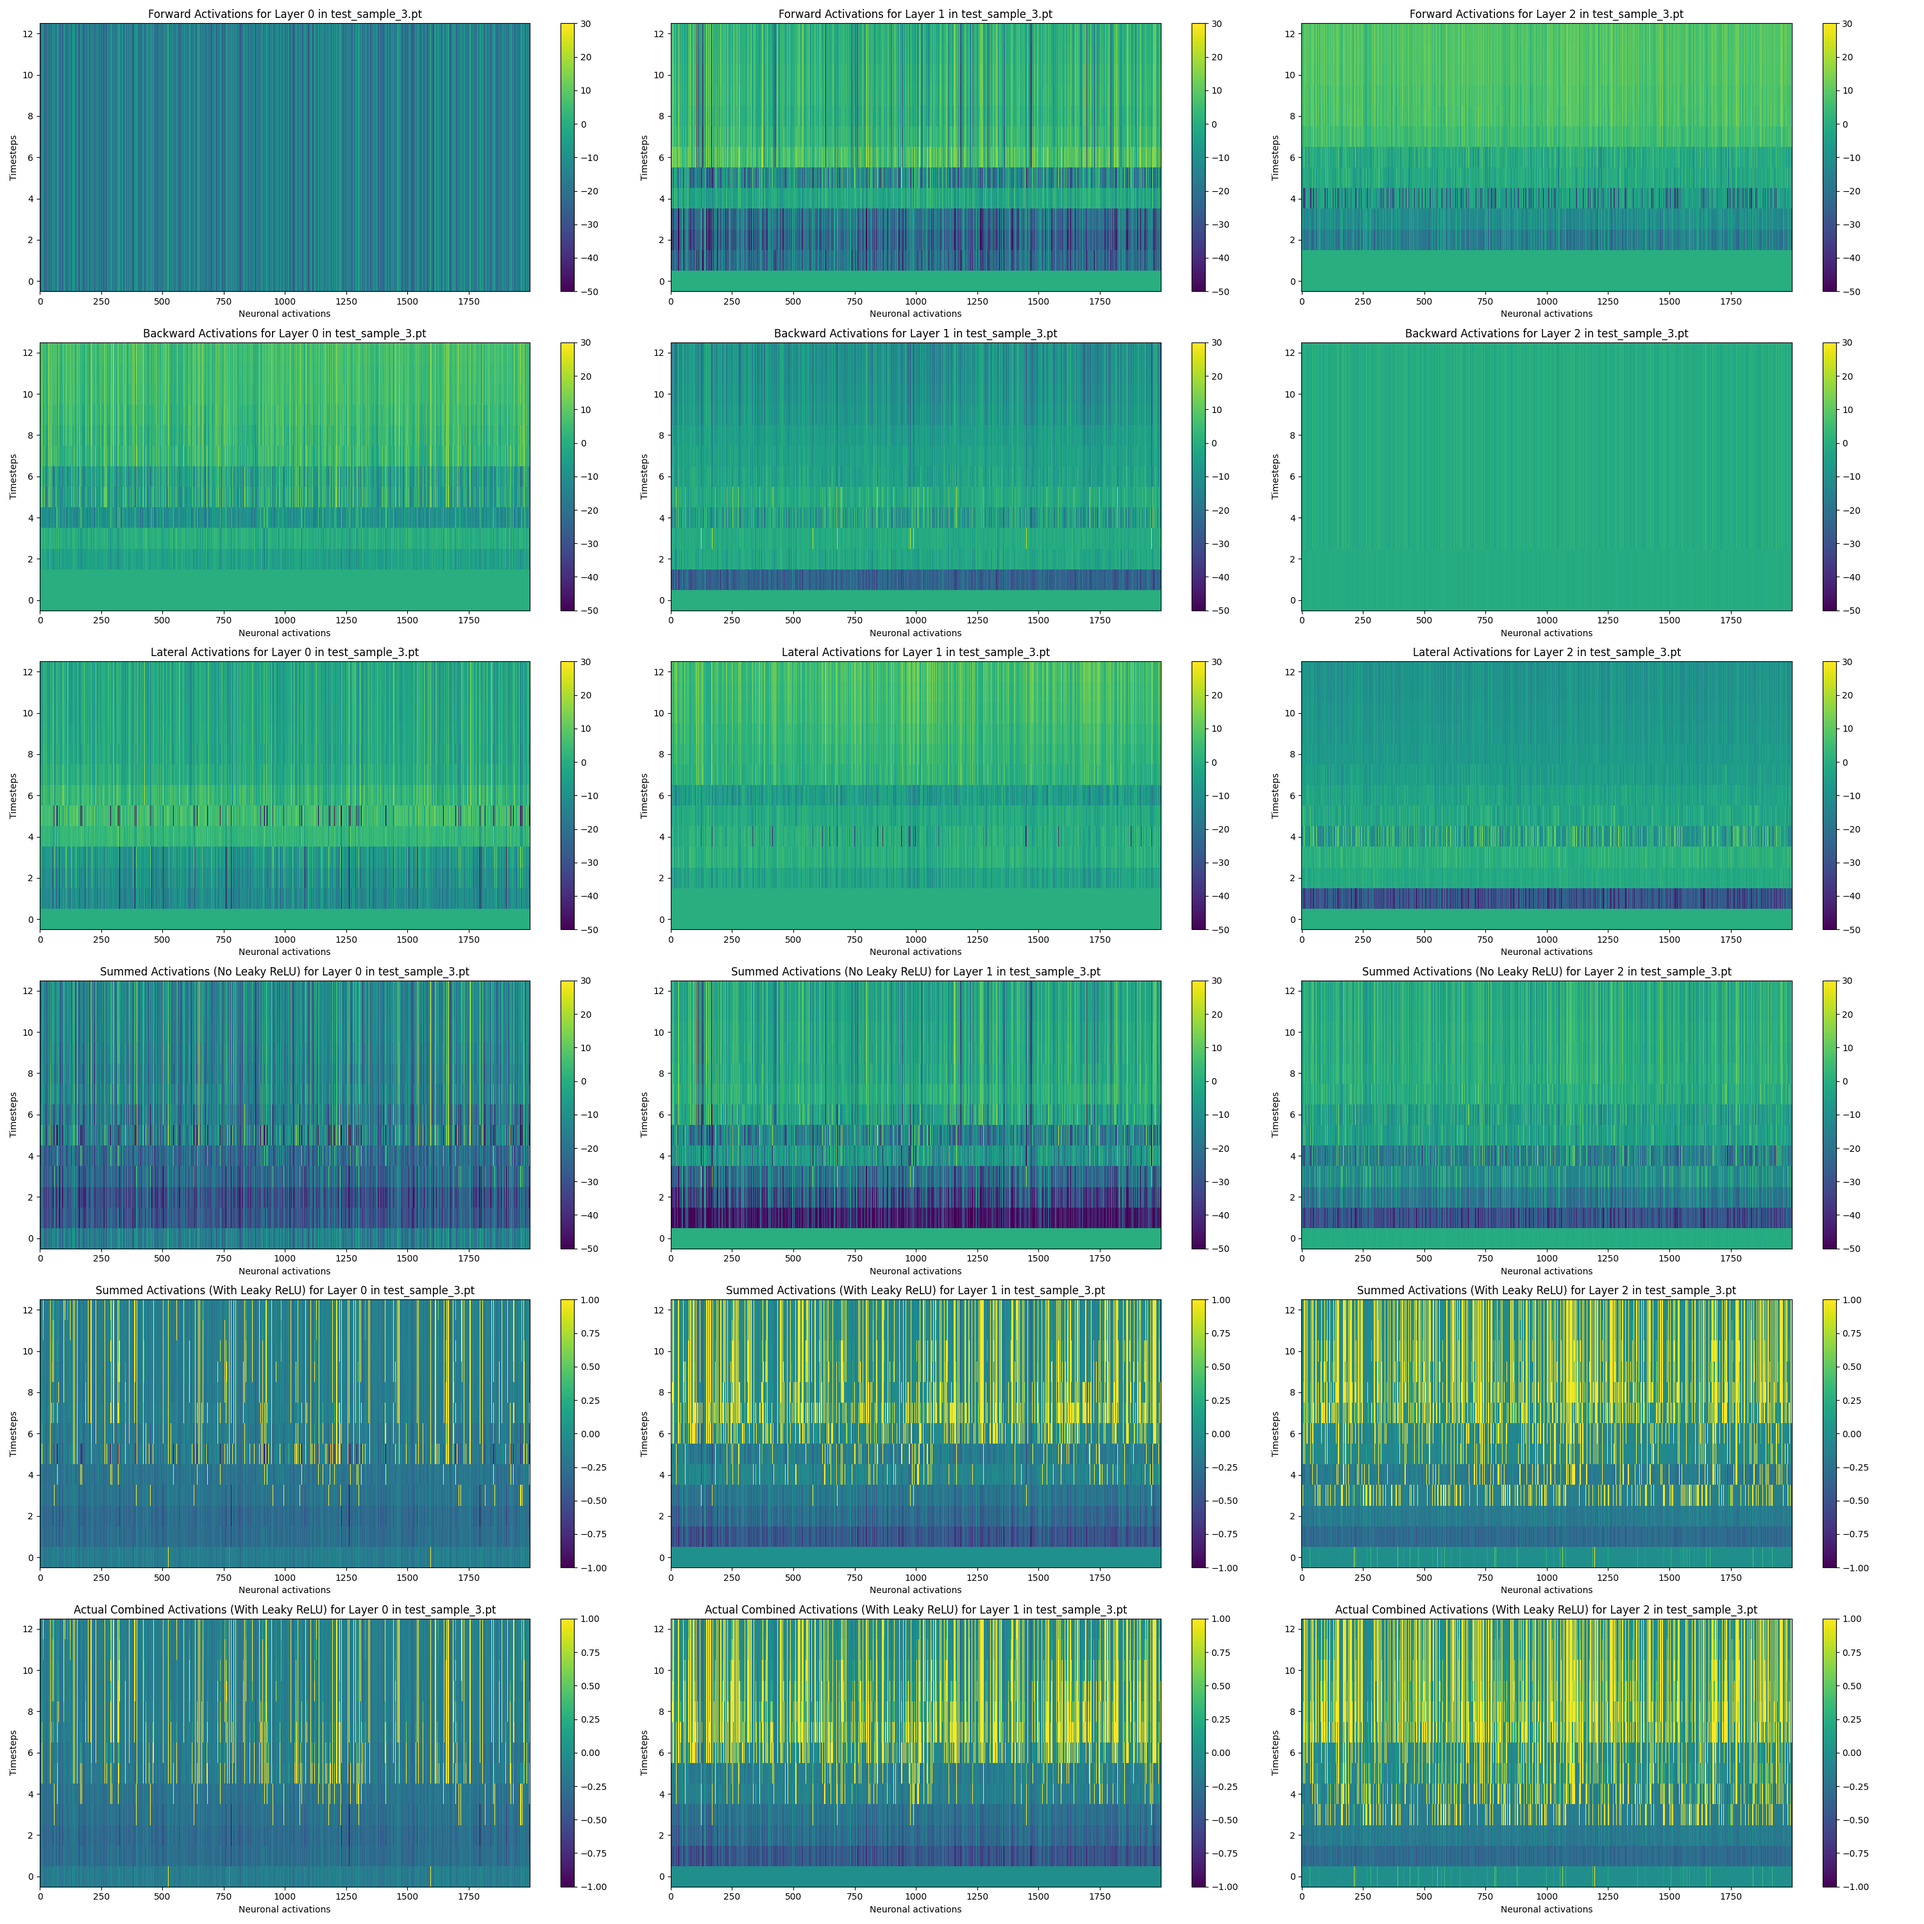
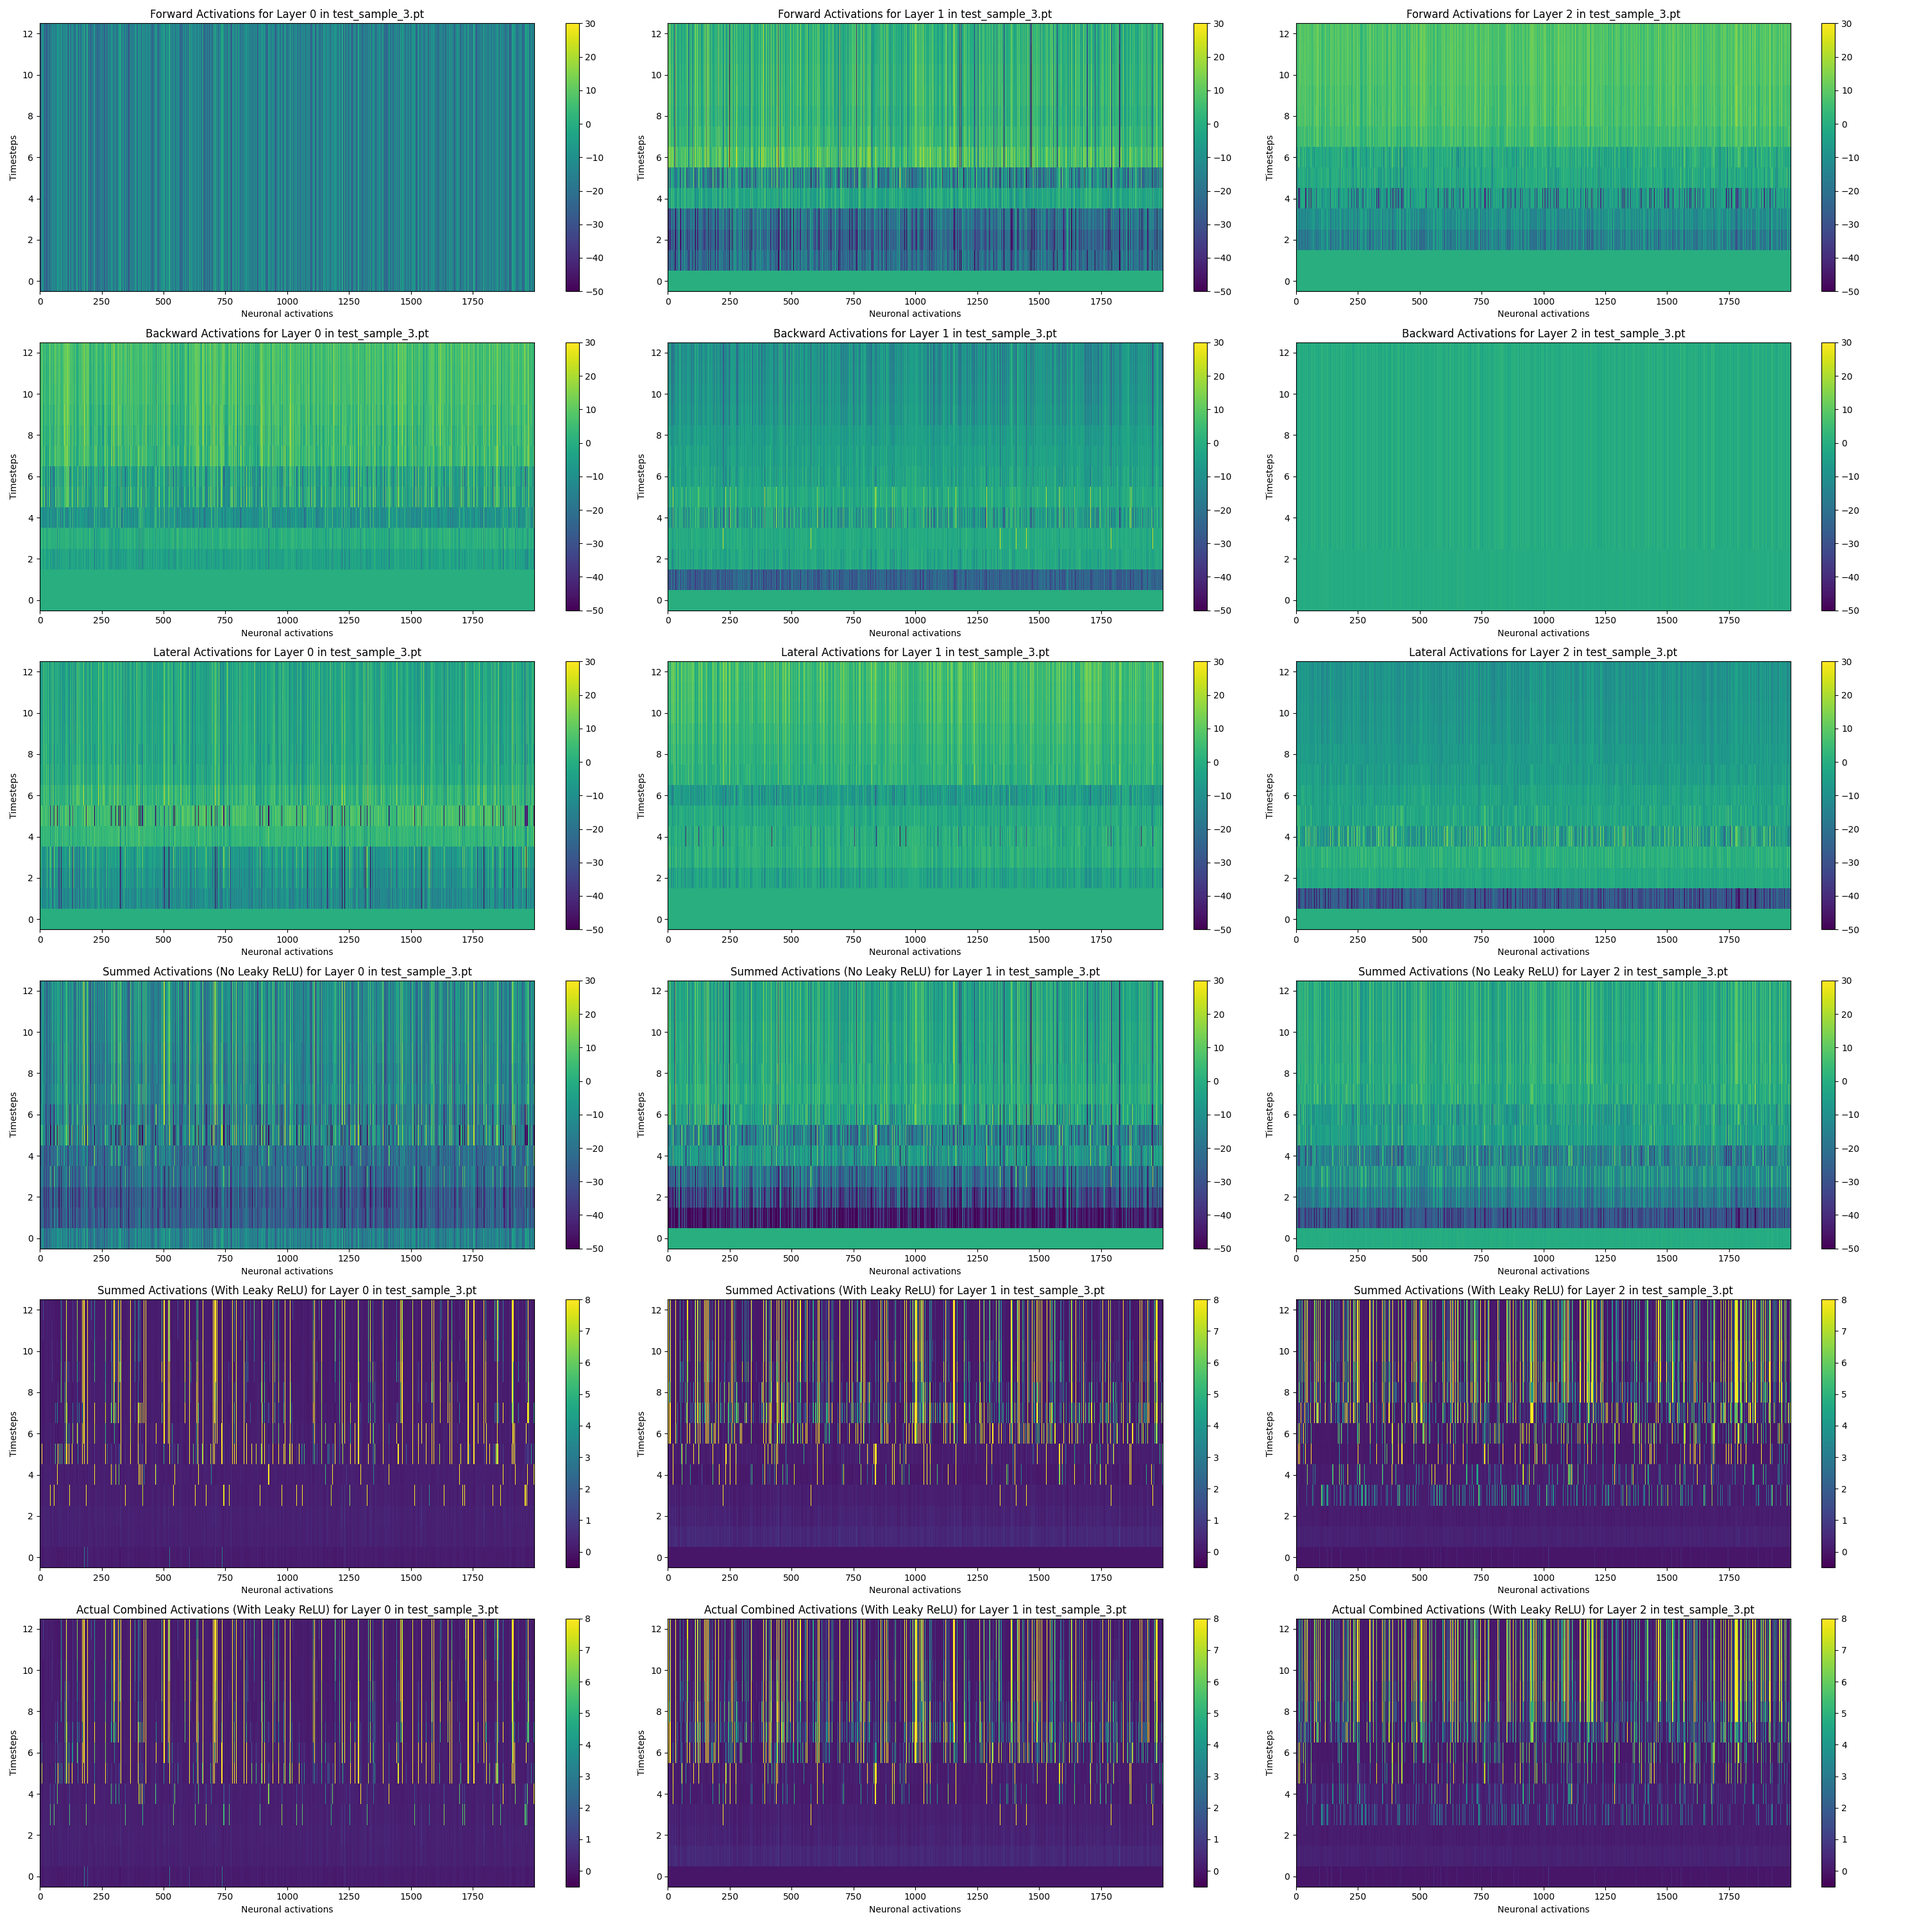
better cosine sim

diff --git a/RecurrentFF/benchmarks/mnist/granular_act.py b/RecurrentFF/benchmarks/mnist/granular_act.py
@@ -4,6 +4,7 @@ import matplotlib.pyplot as plt
 from torch.nn import functional as F
 
 from sklearn.metrics.pairwise import cosine_similarity
+from sklearn.decomposition import PCA
 
 
 OUTPUT_ACTIVATION_LIMIT_LOWER = -0.5
@@ -57,21 +58,26 @@ def plot_cosine_similarity_multi_file(file_names, activation_type="correct"):
             for act1, act2 in comparisons:
                 # Fetch the data for the first activation type for the current layer
                 data1 = accum_data[f'{activation_type}_{act1}_activations'][:, layer, :].cpu(
-                )
+                ).numpy()
 
                 # For combined pairs like "backward + lateral", we add the activations
                 if '+' in act2:
                     act2_parts = act2.split('+')
                     act2_parts = [a.strip() for a in act2_parts]
                     data2 = sum(
-                        accum_data[f'{activation_type}_{a}_activations'][:, layer, :].cpu() for a in act2_parts)
+                        accum_data[f'{activation_type}_{a}_activations'][:, layer, :].cpu().numpy() for a in act2_parts)
                 else:
                     data2 = accum_data[f'{activation_type}_{act2}_activations'][:, layer, :].cpu(
-                    )
+                    ).numpy()
+
+                all_data = np.concatenate([data1, data2], axis=0)
+                pca = PCA(n_components=5).fit(all_data)
+                data1_projected = pca.transform(data1)
+                data2_projected = pca.transform(data2)
 
                 # Compute cosine similarity for each time step
-                cos_sim = [cosine_similarity(data1[i].unsqueeze(0), data2[i].unsqueeze(0))[0][0]
-                           for i in range(data1.size(0))]
+                cos_sim = [cosine_similarity(data1_projected[i].reshape(1, -1), data2_projected[i].reshape(1, -1))[0][0]
+                           for i in range(data1_projected.shape[0])]
 
                 ax.plot(cos_sim, label=f'Cosine Similarity: {act1} :: {act2}')
                 ax.set_title(
@@ -272,11 +278,13 @@ def plot_activation_heatmap(file_name, activation_type="correct"):
             data[f'{activation_type}_backward_activations'] +
             data[f'{activation_type}_lateral_activations']
         )[:, layer, :]
-        summed_activations = torch.abs(summed_activations)
+        summed_activations = summed_activations
 
         # With leaky_relu
         summed_activations_leaky = F.leaky_relu(
-            summed_activations).cpu().numpy()
+            summed_activations)
+        summed_activations_leaky = torch.abs(
+            summed_activations_leaky).cpu().numpy()
 
         # Without leaky_relu
         summed_activations = summed_activations.cpu().numpy()
